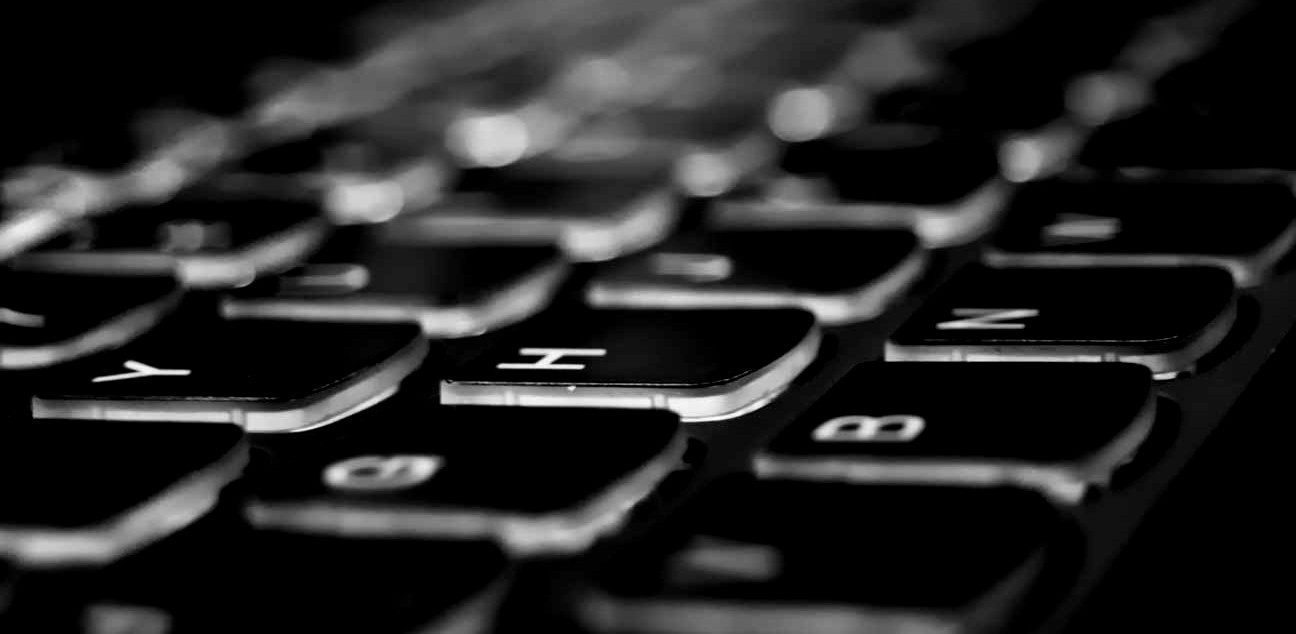
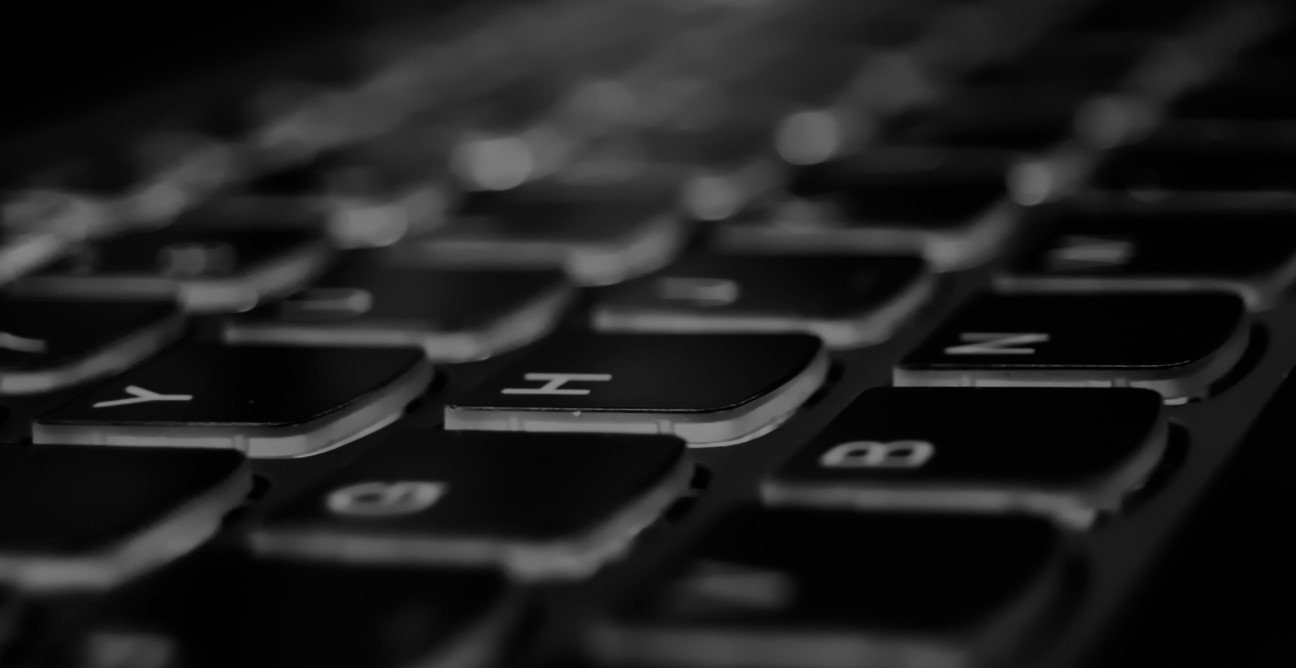
Fix issue #3 - Replace home page feature image with slightly darker one - remove transparency class from div in _imports/page_hero.html

diff --git a/_includes/page__hero.html b/_includes/page__hero.html
@@ -28,7 +28,7 @@
   style="{% if page.header.overlay_color %}background-color: {{ page.header.overlay_color | default: 'transparent' }};{% endif %} {% if overlay_img_path %}background-image: {% if overlay_filter %}linear-gradient({{ overlay_filter }}, {{ overlay_filter }}), {% endif %}url('{{ overlay_img_path }}');{% endif %}"
 >
   {% if page.header.overlay_color or page.header.overlay_image %}
-    <div class="wrapper transparency">
+    <div class="wrapper">
       <h1 class="page__title" itemprop="headline">
         {% if paginator %}
           {{ site.title }}{% unless paginator.page == 1 %} {{ site.data.ui-text[site.locale].page }} {{ paginator.page }}{% endunless %}
